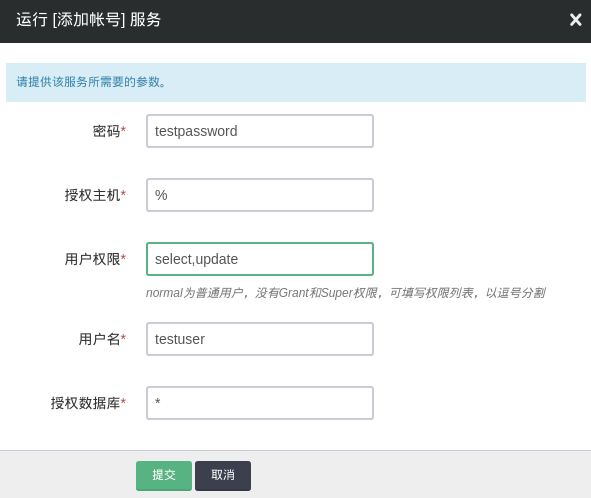
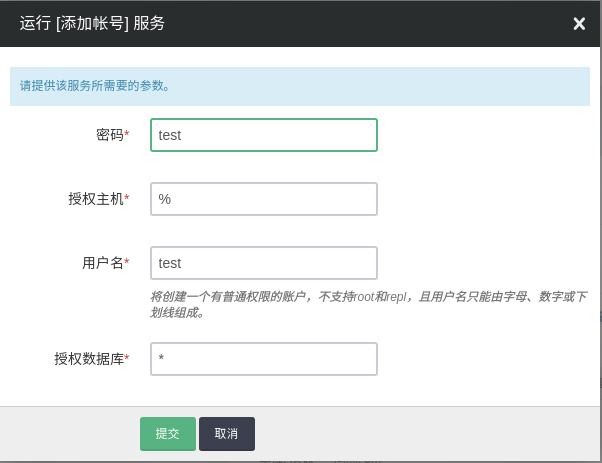
upadte MySQL Plus document after support two nodes
as followings:

* adjust some screenshots

* modify the description of reading VIP

diff --git a/docs/rds/README.md b/docs/rds/README.md
@@ -15,7 +15,7 @@
 节点之间使用 Raft 协议进行管理，当主节点出现故障不可用时，集群会秒级响应并选出新的主节点（与主节点数据完全同步的从节点），立即接管读写请求，确保业务的连续高可用。这一过程，用户完全无需关心后端集群中各节点的角色如何设置，一切由系统自动管理。
 
 
-集群中最多可以添加 6 个从节点，主节点可读可写，从节点设置为只读。 同时，集群提供两个高可用读写 IP， 分别对应数据的读和写。 读 IP 可将请求在多个从节点之间进行负载分担，提供读取性能的同时，也消除了单点故障的影响，提供业务可靠性。写 IP 则始终指向主节点 （master）。 
+集群中最多可以添加 6 个从节点，主节点可读可写，从节点设置为只读。 同时，集群提供两个高可用读写 IP， 分别对应数据的读和写。 读 IP 可将请求在所有节点之间进行负载分担，提供读取性能的同时，也消除了单点故障的影响，提供业务可靠性。写 IP 则始终指向主节点 （master）。
 
 
 - 支持双存储引擎，优化存储成本
@@ -43,6 +43,8 @@
   可以选择性能型或者超高性能型数据库，以及数据库的配置、磁盘大小。磁盘大小决定了数据库最大容量，您的数据和日志会共享这块磁盘。
 
 ![节点设置](../../images/rds/base_step_2.png)
+
+**注解**：当节点总数为2时，将采用异步复制，而节点总数大于2时，将采用Semi-Sync复制，数据安全性更高。
 
 ### 网络设置
 
@@ -73,7 +75,7 @@
 
 集群提供两个高可用的读写IP，分别对应于数据的读和写。 
 
-- 读IP：可将请求在多个从节点之间进行负载分担，提高读取性能，消除单点故障。 
+- 读IP：可将请求在所有节点之间进行负载分担，提高读取性能，消除单点故障。 
 
 - 写IP：始终指向master节点。
 
@@ -161,8 +163,6 @@
 
 
 ![添加帐号](../../images/rds/add_user.png)
-
-当写为normal时，会授权为没有Grant和Super权限的普通帐号权限。
 
 **注解**：这里只能创建普通权限的帐号。系统保留root帐号和repl帐号来进行自动化运维和数据同步，请勿删除这两个帐号，以免破坏系统的运行
 
